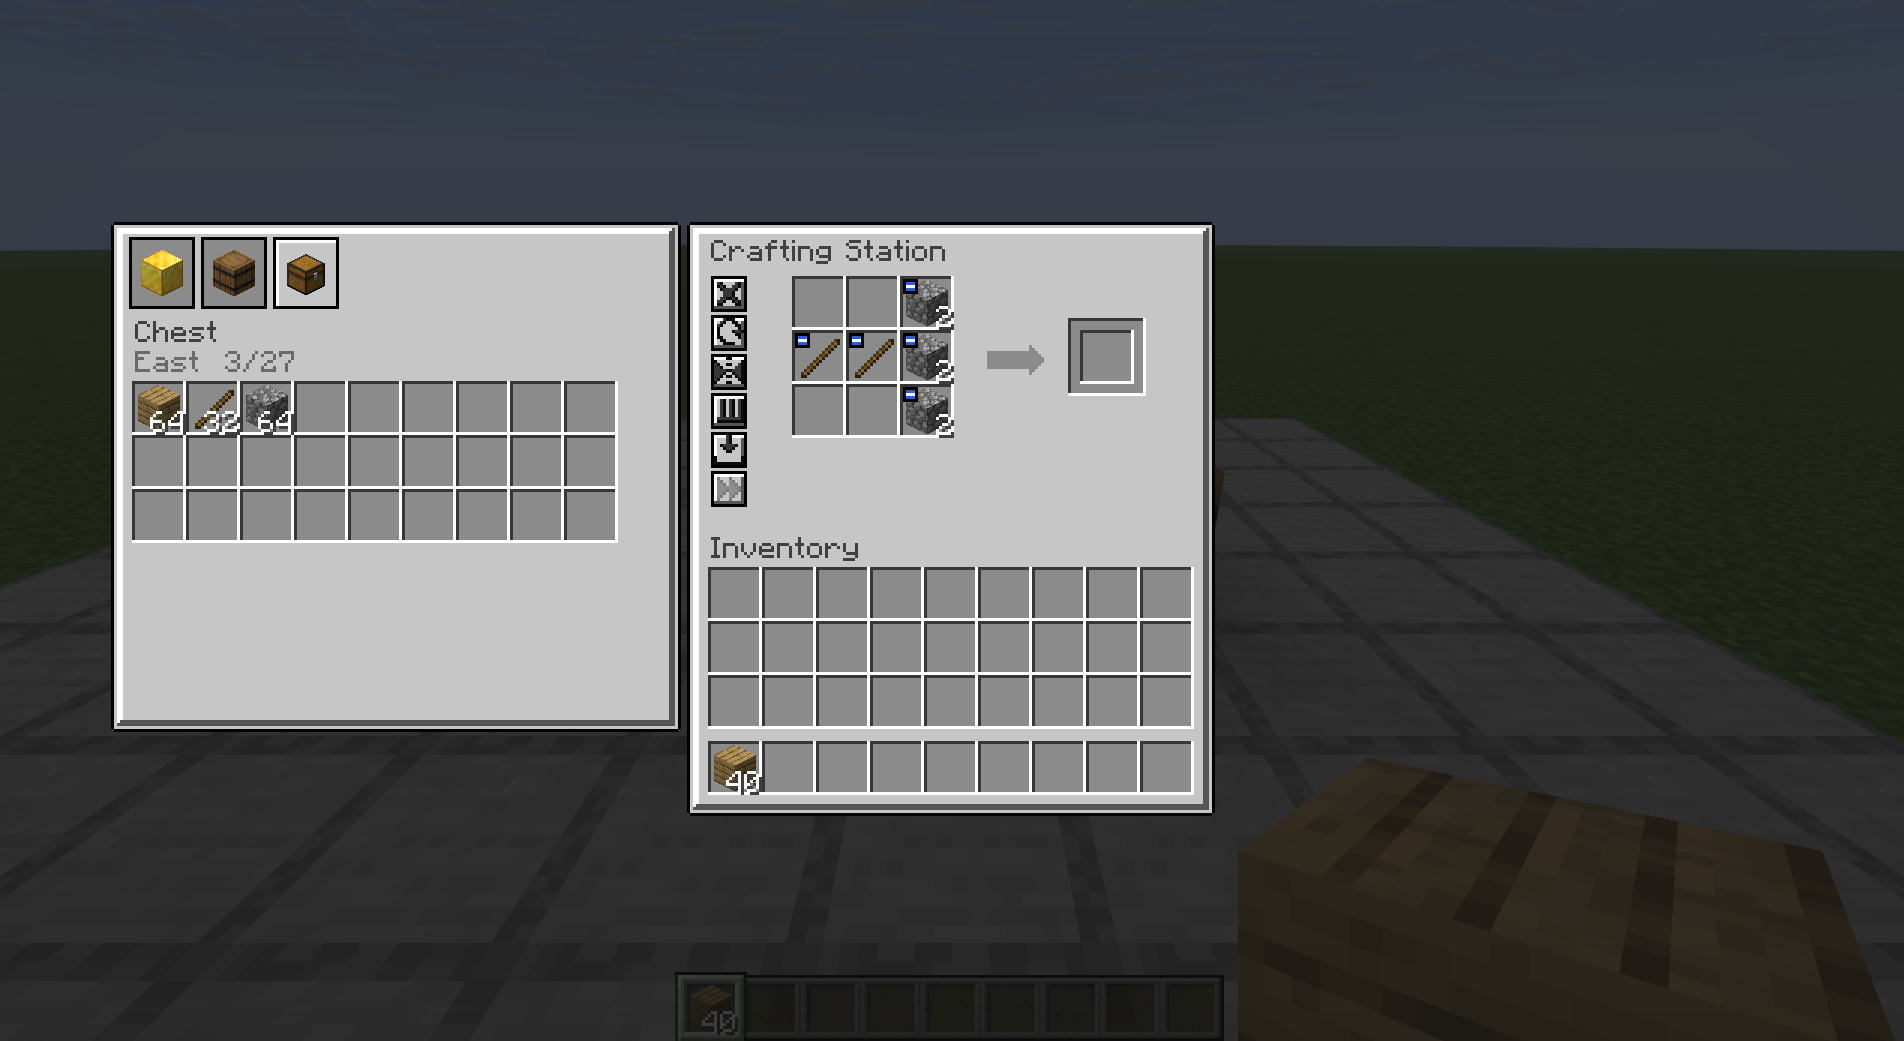
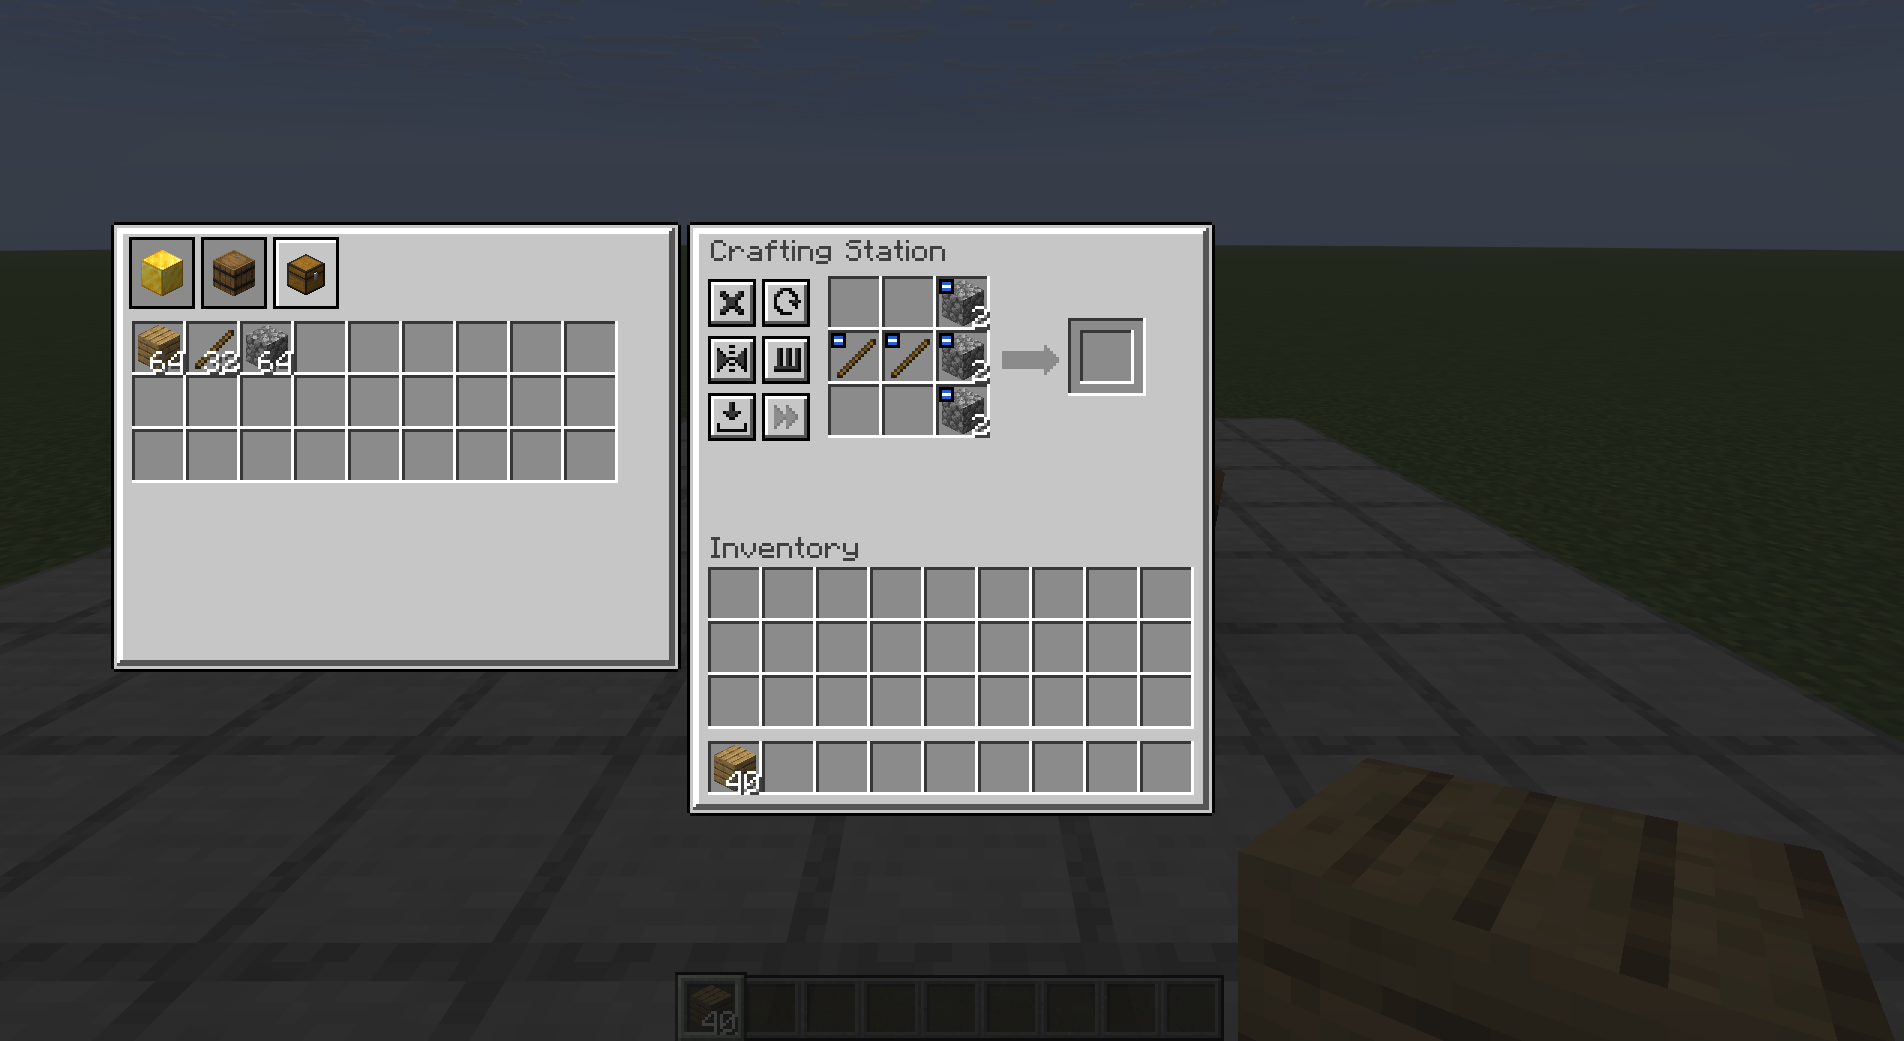
Buttons in two columns of three (16 px) spanning the grid; storage text moved to a tab tooltip

diff --git a/version-26.2/src/main/java/com/itmecasey/barelycrafting/client/StationScreen.java b/version-26.2/src/main/java/com/itmecasey/barelycrafting/client/StationScreen.java
@@ -51,7 +51,7 @@ public class StationScreen extends AbstractContainerScreen<StationMenu> {
                 continue;
             }
             int id = s.id;
-            addRenderableWidget(new IconButton(leftPos + 8, topPos + 18 + row * 13, s.icon,
+            addRenderableWidget(new IconButton(leftPos + 7 + (row % 2) * 18, topPos + StationMenu.GRID_Y + (row / 2) * 19, s.icon,
                     Component.translatable("gui.barelycrafting.tip_" + s.key), s.usable, () -> press(id)));
             row++;
         }
@@ -114,7 +114,7 @@ public class StationScreen extends AbstractContainerScreen<StationMenu> {
             inset(g, leftPos + s.x - 1, topPos + s.y - 1, 18, 18);
         }
         // The arrow from the grid to the result.
-        int ax = leftPos + 100;
+        int ax = leftPos + 105;
         int ay = topPos + 41;
         g.fill(ax, ay + 2, ax + 14, ay + 8, 0xFF8B8B8B);
         for (int i = 0; i < 6; i++) {
@@ -160,10 +160,6 @@ public class StationScreen extends AbstractContainerScreen<StationMenu> {
             }
             g.item(new net.minecraft.world.item.ItemStack(menu.neighborBlock(i).asItem()), tx + 3, ty + 4);
         }
-        int side = menu.neighborSide(sel);
-        String where = side >= 0 && side < 6 ? Component.translatable("gui.barelycrafting.side_" + SIDES[side]).getString() : "";
-        g.text(font, menu.neighborBlock(sel).getName().getString(), x + 8, y + 33, TEXT, false);
-        g.text(font, where + "  " + menu.neighborUsed(sel) + "/" + menu.neighborTotal(sel), x + 8, y + 43, 0xFF6A6A6A, false);
         int max = maxRow();
         if (max > 0) {
             int bx = x + BAR_X;
@@ -175,6 +171,32 @@ public class StationScreen extends AbstractContainerScreen<StationMenu> {
             g.fill(bx + 1, hy + 1, bx + 5, hy + handle - 1, 0xFFC6C6C6);
             g.fill(bx + 1, hy + 1, bx + 5, hy + 2, 0xFFFFFFFF);
         }
+    }
+
+    /** The tab under the mouse, or -1. */
+    private int tabAt(double mx, double my) {
+        for (int i = 0; i < menu.storages(); i++) {
+            int tx = panelX() + 6 + i * 24;
+            if (mx >= tx && mx < tx + 22 && my >= topPos + 5 && my < topPos + 29) {
+                return i;
+            }
+        }
+        return -1;
+    }
+
+    @Override
+    protected void extractTooltip(GuiGraphicsExtractor g, int mx, int my) {
+        int tab = tabAt(mx, my);
+        if (tab >= 0) {
+            int side = menu.neighborSide(tab);
+            String where = side >= 0 && side < 6 ? Component.translatable("gui.barelycrafting.side_" + SIDES[side]).getString() : "";
+            java.util.List<Component> lines = new java.util.ArrayList<>();
+            lines.add(menu.neighborBlock(tab).getName());
+            lines.add(Component.literal(where + "  " + menu.neighborUsed(tab) + "/" + menu.neighborTotal(tab)));
+            g.setComponentTooltipForNextFrame(font, lines, mx, my);
+            return;
+        }
+        super.extractTooltip(g, mx, my);
     }
 
     private void scrollTo(int row) {

diff --git a/version-26.3/src/main/java/com/itmecasey/barelycrafting/client/StationScreen.java b/version-26.3/src/main/java/com/itmecasey/barelycrafting/client/StationScreen.java
@@ -51,7 +51,7 @@ public class StationScreen extends AbstractContainerScreen<StationMenu> {
                 continue;
             }
             int id = s.id;
-            addRenderableWidget(new IconButton(leftPos + 8, topPos + 18 + row * 13, s.icon,
+            addRenderableWidget(new IconButton(leftPos + 7 + (row % 2) * 18, topPos + StationMenu.GRID_Y + (row / 2) * 19, s.icon,
                     Component.translatable("gui.barelycrafting.tip_" + s.key), s.usable, () -> press(id)));
             row++;
         }
@@ -114,7 +114,7 @@ public class StationScreen extends AbstractContainerScreen<StationMenu> {
             inset(g, leftPos + s.x - 1, topPos + s.y - 1, 18, 18);
         }
         // The arrow from the grid to the result.
-        int ax = leftPos + 100;
+        int ax = leftPos + 105;
         int ay = topPos + 41;
         g.fill(ax, ay + 2, ax + 14, ay + 8, 0xFF8B8B8B);
         for (int i = 0; i < 6; i++) {
@@ -160,10 +160,6 @@ public class StationScreen extends AbstractContainerScreen<StationMenu> {
             }
             g.item(new net.minecraft.world.item.ItemStack(menu.neighborBlock(i).asItem()), tx + 3, ty + 4);
         }
-        int side = menu.neighborSide(sel);
-        String where = side >= 0 && side < 6 ? Component.translatable("gui.barelycrafting.side_" + SIDES[side]).getString() : "";
-        g.text(font, menu.neighborBlock(sel).getName().getString(), x + 8, y + 33, TEXT, false);
-        g.text(font, where + "  " + menu.neighborUsed(sel) + "/" + menu.neighborTotal(sel), x + 8, y + 43, 0xFF6A6A6A, false);
         int max = maxRow();
         if (max > 0) {
             int bx = x + BAR_X;
@@ -175,6 +171,32 @@ public class StationScreen extends AbstractContainerScreen<StationMenu> {
             g.fill(bx + 1, hy + 1, bx + 5, hy + handle - 1, 0xFFC6C6C6);
             g.fill(bx + 1, hy + 1, bx + 5, hy + 2, 0xFFFFFFFF);
         }
+    }
+
+    /** The tab under the mouse, or -1. */
+    private int tabAt(double mx, double my) {
+        for (int i = 0; i < menu.storages(); i++) {
+            int tx = panelX() + 6 + i * 24;
+            if (mx >= tx && mx < tx + 22 && my >= topPos + 5 && my < topPos + 29) {
+                return i;
+            }
+        }
+        return -1;
+    }
+
+    @Override
+    protected void extractTooltip(GuiGraphicsExtractor g, int mx, int my) {
+        int tab = tabAt(mx, my);
+        if (tab >= 0) {
+            int side = menu.neighborSide(tab);
+            String where = side >= 0 && side < 6 ? Component.translatable("gui.barelycrafting.side_" + SIDES[side]).getString() : "";
+            java.util.List<Component> lines = new java.util.ArrayList<>();
+            lines.add(menu.neighborBlock(tab).getName());
+            lines.add(Component.literal(where + "  " + menu.neighborUsed(tab) + "/" + menu.neighborTotal(tab)));
+            g.setComponentTooltipForNextFrame(font, lines, mx, my);
+            return;
+        }
+        super.extractTooltip(g, mx, my);
     }
 
     private void scrollTo(int row) {

diff --git a/version-26.2/src/dev/java/com/itmecasey/barelycrafting/dev/ShotTour.java b/version-26.2/src/dev/java/com/itmecasey/barelycrafting/dev/ShotTour.java
@@ -235,6 +235,13 @@ public final class ShotTour {
         then(25, () -> hoverViewSlot(10));
         then(40, () -> LOGGER.info("BARELYCRAFTING-SHOTS big storage scroll row={} tab={} first={}", menu().viewScroll(), menu().selectedTab(), menu().slots.get(StationMenu.PLAYER_END).getItem()));
         shoot("gui_scrolled_big_storage", 10);
+        then(3, () -> {
+            var screen = Minecraft.getInstance().gui.screen();
+            if (screen instanceof com.itmecasey.barelycrafting.client.StationScreen scr) {
+                moveMouseGui(scr.guiLeft() - 192 + 6 + 24 + 11, scr.guiTop() + 5 + 12);
+            }
+        });
+        shoot("gui_tab_tooltip", 50);
         then(2, () -> close());
         then(20, () -> quit(Minecraft.getInstance()));
     }
@@ -320,7 +327,7 @@ public final class ShotTour {
         }
         int left = station.guiLeft();
         int top = station.guiTop();
-        moveMouseGui(left + 8 + 6, top + 18 + n * 13 + 6);
+        moveMouseGui(left + 7 + (n % 2) * 18 + 8, top + 19 + (n / 2) * 19 + 8);
     }
 
     private static void hoverGuiAway() {

diff --git a/version-26.3/src/dev/java/com/itmecasey/barelycrafting/dev/ShotTour.java b/version-26.3/src/dev/java/com/itmecasey/barelycrafting/dev/ShotTour.java
@@ -235,6 +235,13 @@ public final class ShotTour {
         then(25, () -> hoverViewSlot(10));
         then(40, () -> LOGGER.info("BARELYCRAFTING-SHOTS big storage scroll row={} tab={} first={}", menu().viewScroll(), menu().selectedTab(), menu().slots.get(StationMenu.PLAYER_END).getItem()));
         shoot("gui_scrolled_big_storage", 10);
+        then(3, () -> {
+            var screen = Minecraft.getInstance().gui.screen();
+            if (screen instanceof com.itmecasey.barelycrafting.client.StationScreen scr) {
+                moveMouseGui(scr.guiLeft() - 192 + 6 + 24 + 11, scr.guiTop() + 5 + 12);
+            }
+        });
+        shoot("gui_tab_tooltip", 50);
         then(2, () -> close());
         then(20, () -> quit(Minecraft.getInstance()));
     }
@@ -320,7 +327,7 @@ public final class ShotTour {
         }
         int left = station.guiLeft();
         int top = station.guiTop();
-        moveMouseGui(left + 8 + 6, top + 18 + n * 13 + 6);
+        moveMouseGui(left + 7 + (n % 2) * 18 + 8, top + 19 + (n / 2) * 19 + 8);
     }
 
     private static void hoverGuiAway() {

diff --git a/version-26.2/src/main/java/com/itmecasey/barelycrafting/client/IconButton.java b/version-26.2/src/main/java/com/itmecasey/barelycrafting/client/IconButton.java
@@ -16,7 +16,7 @@ import net.minecraft.resources.Identifier;
  * of everything else. A button whose action would do nothing right now is drawn dimmed and ignores clicks.
  */
 final class IconButton extends AbstractWidget {
-    static final int SIZE = 12;
+    static final int SIZE = 16;
     private final Identifier icon;
     private final Runnable action;
     private final BooleanSupplier usable;
@@ -48,7 +48,7 @@ final class IconButton extends AbstractWidget {
         g.fill(x + 1, y + 1, x + 2, y + SIZE - 1, 0xFFFFFFFF);
         g.fill(x + 1, y + SIZE - 2, x + SIZE - 1, y + SIZE - 1, hover ? 0xFF7A83B8 : 0xFF555555);
         g.fill(x + SIZE - 2, y + 2, x + SIZE - 1, y + SIZE - 1, hover ? 0xFF7A83B8 : 0xFF555555);
-        g.blit(RenderPipelines.GUI_TEXTURED, icon, x + 1, y + 1, 0.0F, 0.0F, 10, 10, 10, 10, 10, 10, on ? 0xFFFFFFFF : 0x66FFFFFF);
+        g.blit(RenderPipelines.GUI_TEXTURED, icon, x + 3, y + 3, 0.0F, 0.0F, 10, 10, 10, 10, 10, 10, on ? 0xFFFFFFFF : 0x66FFFFFF);
     }
 
     @Override

diff --git a/version-26.3/src/main/java/com/itmecasey/barelycrafting/client/IconButton.java b/version-26.3/src/main/java/com/itmecasey/barelycrafting/client/IconButton.java
@@ -16,7 +16,7 @@ import net.minecraft.resources.Identifier;
  * of everything else. A button whose action would do nothing right now is drawn dimmed and ignores clicks.
  */
 final class IconButton extends AbstractWidget {
-    static final int SIZE = 12;
+    static final int SIZE = 16;
     private final Identifier icon;
     private final Runnable action;
     private final BooleanSupplier usable;
@@ -48,7 +48,7 @@ final class IconButton extends AbstractWidget {
         g.fill(x + 1, y + 1, x + 2, y + SIZE - 1, 0xFFFFFFFF);
         g.fill(x + 1, y + SIZE - 2, x + SIZE - 1, y + SIZE - 1, hover ? 0xFF7A83B8 : 0xFF555555);
         g.fill(x + SIZE - 2, y + 2, x + SIZE - 1, y + SIZE - 1, hover ? 0xFF7A83B8 : 0xFF555555);
-        g.blit(RenderPipelines.GUI_TEXTURED, icon, x + 1, y + 1, 0.0F, 0.0F, 10, 10, 10, 10, 10, 10, on ? 0xFFFFFFFF : 0x66FFFFFF);
+        g.blit(RenderPipelines.GUI_TEXTURED, icon, x + 3, y + 3, 0.0F, 0.0F, 10, 10, 10, 10, 10, 10, on ? 0xFFFFFFFF : 0x66FFFFFF);
     }
 
     @Override

diff --git a/version-26.2/src/main/java/com/itmecasey/barelycrafting/menu/StationMenu.java b/version-26.2/src/main/java/com/itmecasey/barelycrafting/menu/StationMenu.java
@@ -41,7 +41,7 @@ public class StationMenu extends AbstractContainerMenu {
     public static final int GRID = 9;
     public static final int RESULT = 9;
     public static final int FIRST_PLAYER = 10;
-    public static final int GRID_X = 36;
+    public static final int GRID_X = 48;
     public static final int GRID_Y = 19;
     public static final int RESULT_X = 132;
     public static final int RESULT_Y = 37;
@@ -52,7 +52,7 @@ public class StationMenu extends AbstractContainerMenu {
     public static final int VIEW_ROWS = 6;
     public static final int VIEW_PER = VIEW_COLS * VIEW_ROWS;
     public static final int VIEW_X = -184;
-    public static final int VIEW_Y = 54;
+    public static final int VIEW_Y = 34;
     public static final int BTN_TAB = 200;
     /** {@code BTN_SCROLL + tab * 10000 + row} sets the first visible row of one storage. */
     public static final int BTN_SCROLL = 1_000_000;

diff --git a/version-26.3/src/main/java/com/itmecasey/barelycrafting/menu/StationMenu.java b/version-26.3/src/main/java/com/itmecasey/barelycrafting/menu/StationMenu.java
@@ -41,7 +41,7 @@ public class StationMenu extends AbstractContainerMenu {
     public static final int GRID = 9;
     public static final int RESULT = 9;
     public static final int FIRST_PLAYER = 10;
-    public static final int GRID_X = 36;
+    public static final int GRID_X = 48;
     public static final int GRID_Y = 19;
     public static final int RESULT_X = 132;
     public static final int RESULT_Y = 37;
@@ -52,7 +52,7 @@ public class StationMenu extends AbstractContainerMenu {
     public static final int VIEW_ROWS = 6;
     public static final int VIEW_PER = VIEW_COLS * VIEW_ROWS;
     public static final int VIEW_X = -184;
-    public static final int VIEW_Y = 54;
+    public static final int VIEW_Y = 34;
     public static final int BTN_TAB = 200;
     /** {@code BTN_SCROLL + tab * 10000 + row} sets the first visible row of one storage. */
     public static final int BTN_SCROLL = 1_000_000;

diff --git a/scripts/client_tour.py b/scripts/client_tour.py
@@ -40,6 +40,11 @@ def write_options(run):
     path.write_text("\n".join(out) + "\n", encoding="utf-8")
 
 
+def launcher_log():
+    path = Path.home() / "AppData" / "Local" / "launch-isolated" / "MCTest.log"
+    return path.read_text(encoding="utf-8", errors="replace") if path.exists() else ""
+
+
 def tour(layer):
     folder = ROOT / layer
     run = folder / "run"
@@ -57,6 +62,8 @@ def tour(layer):
     try:
         while time.time() - start < TIMEOUT:
             time.sleep(3)
+            if "BUILD FAILED" in launcher_log().split("started on MCTest")[-1] and not latest.exists():
+                break
             if latest.exists() and "BARELYCRAFTING-SHOTS DONE" in latest.read_text(encoding="utf-8", errors="replace"):
                 done = True
                 break
